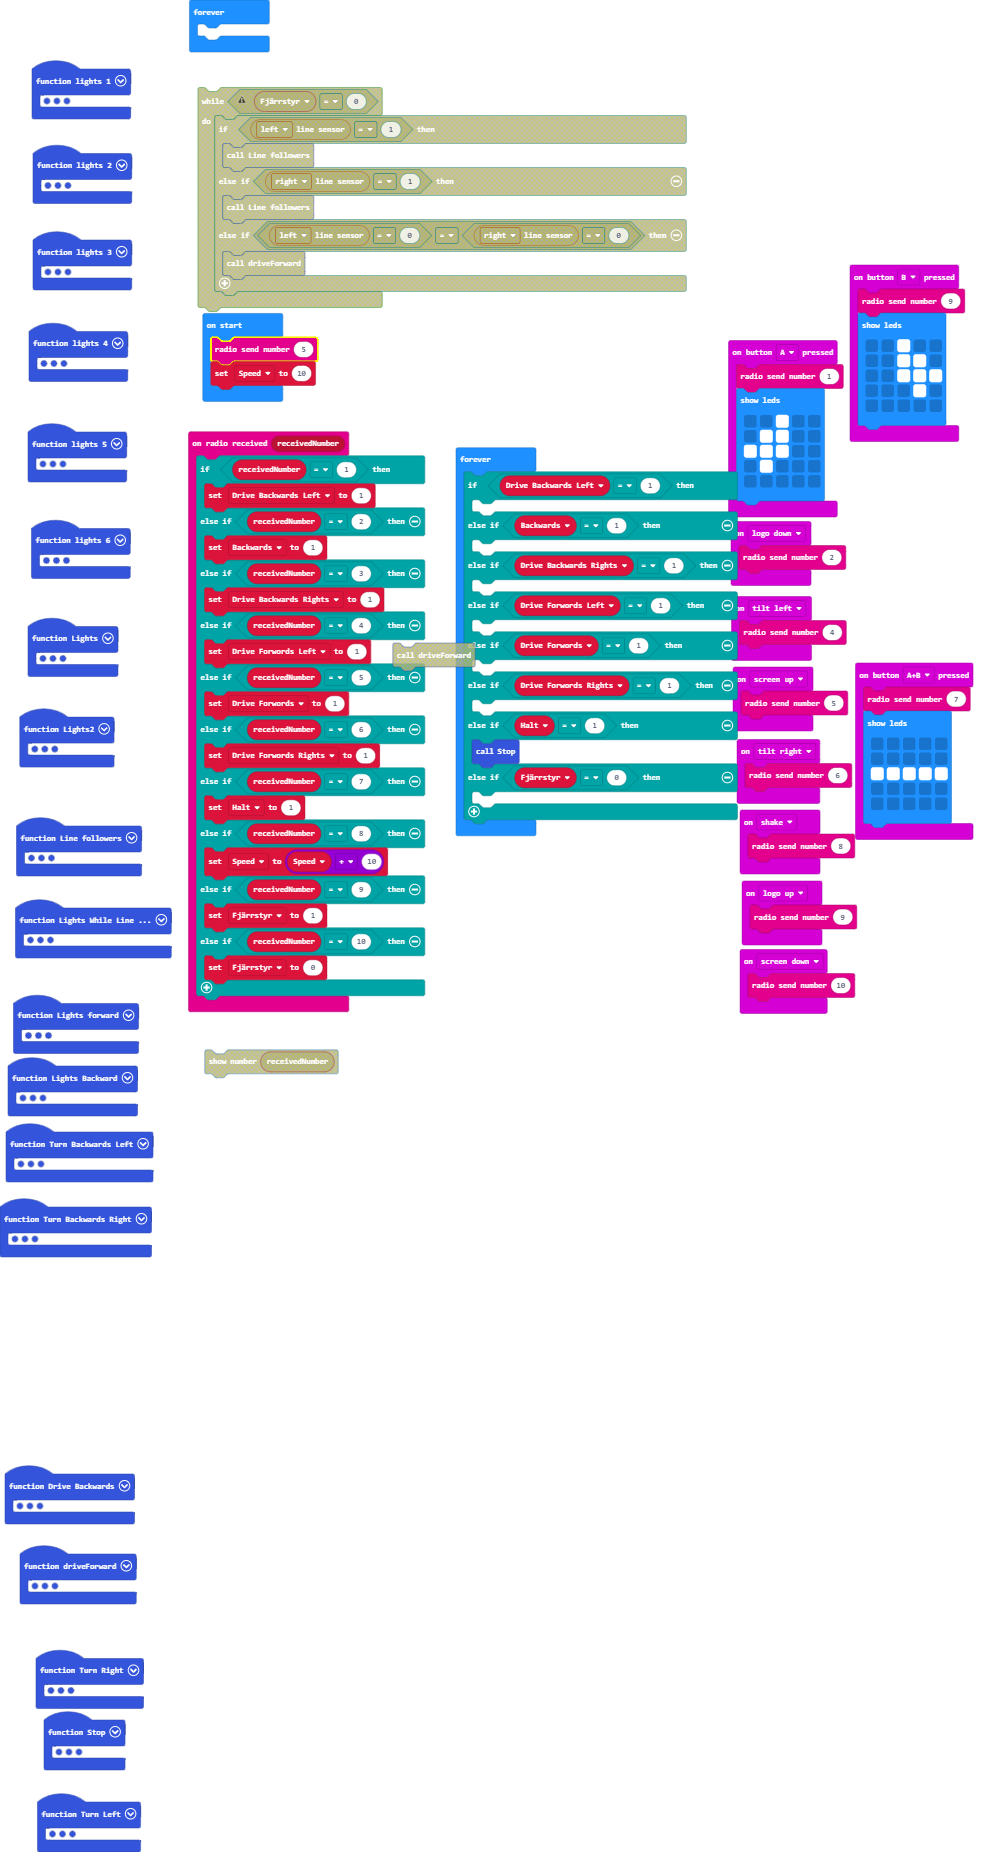
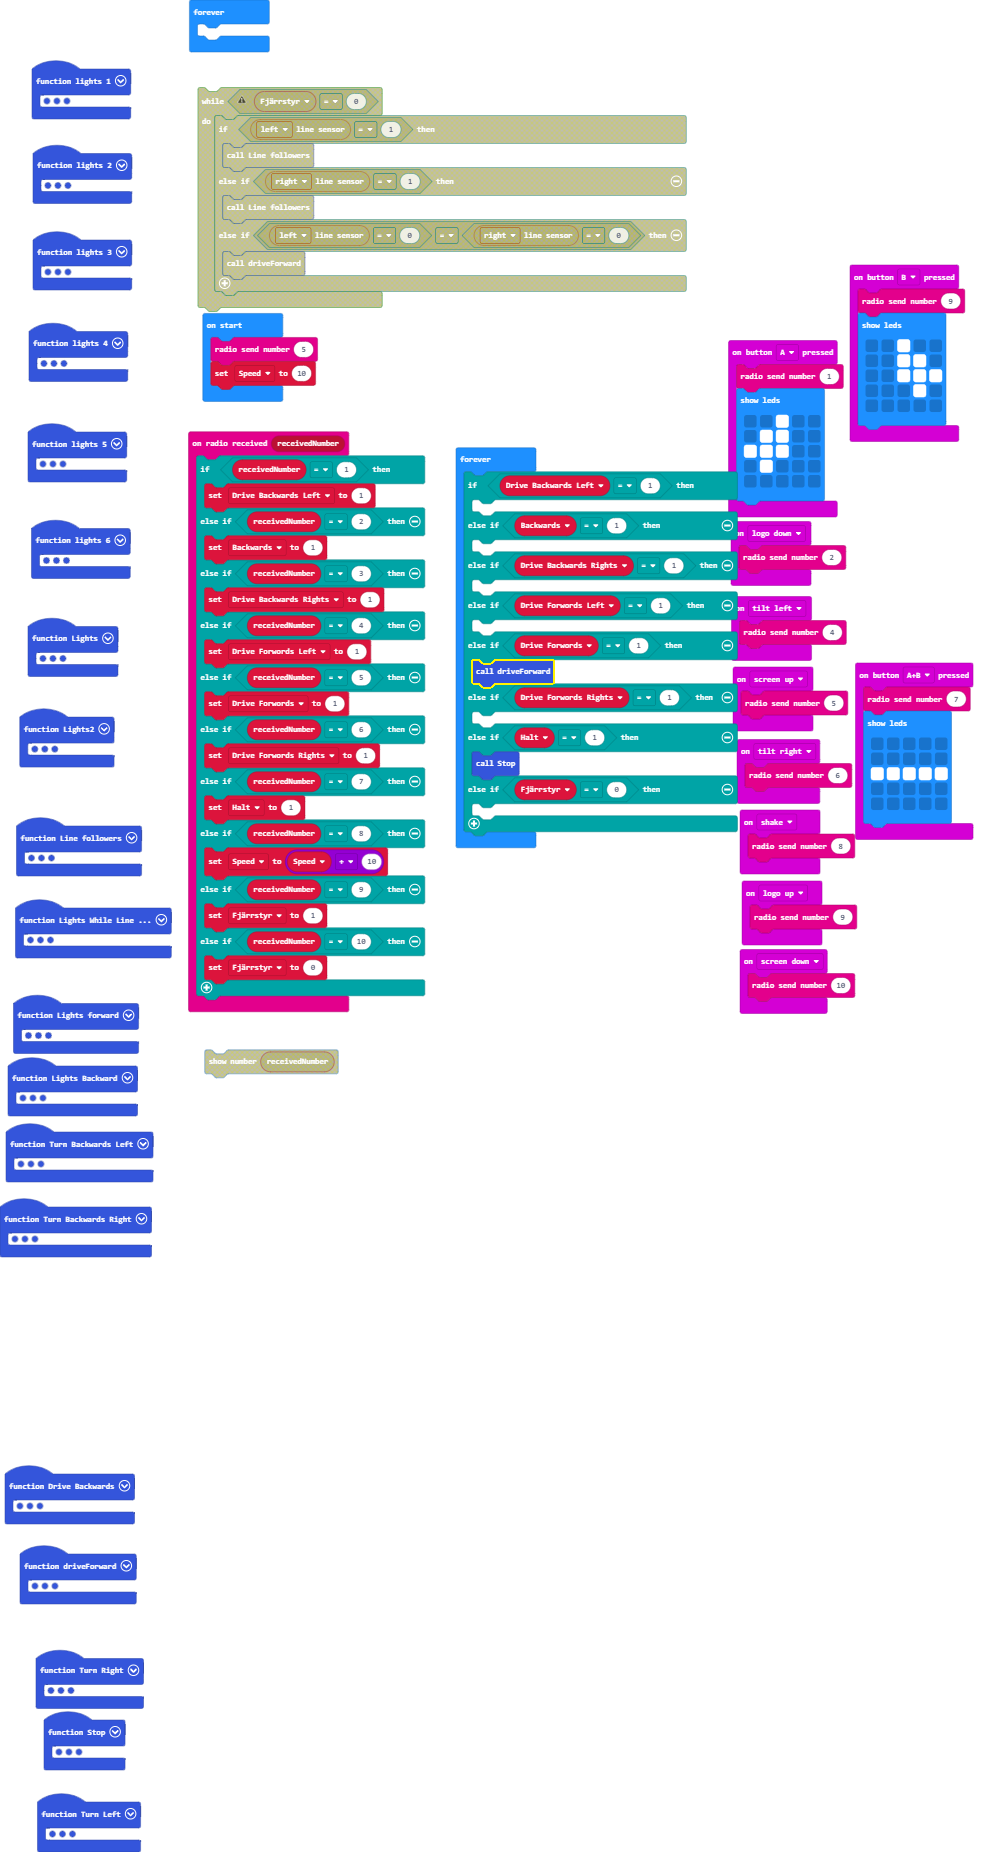
Update main.blocks, main.ts

Changed region(s): [[0.3735, 0.3386, 0.747, 0.4617]]

diff --git a/main.ts b/main.ts
@@ -309,7 +309,7 @@ basic.forever(function () {
     } else if (Drive_Forwords_Left == 1) {
     	
     } else if (Drive_Forwords == 1) {
-    	
+        driveForward()
     } else if (Drive_Forwords_Rights == 1) {
     	
     } else if (Halt == 1) {
